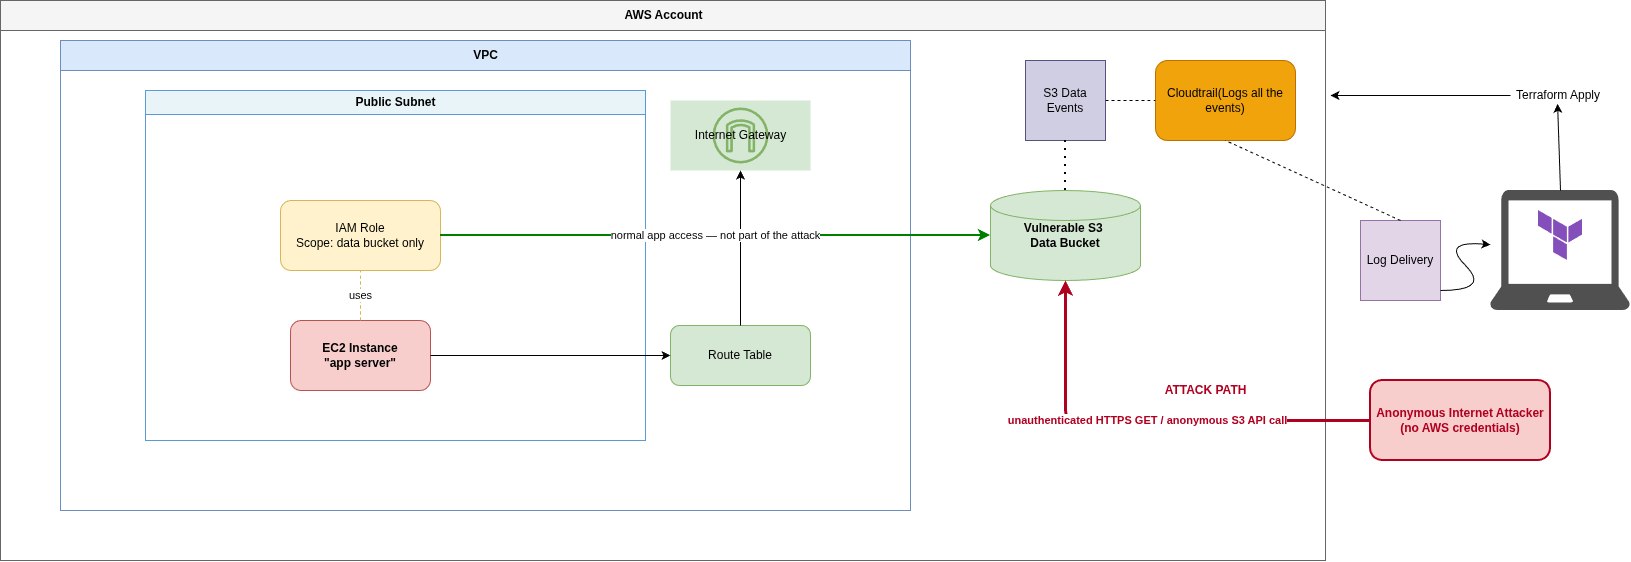
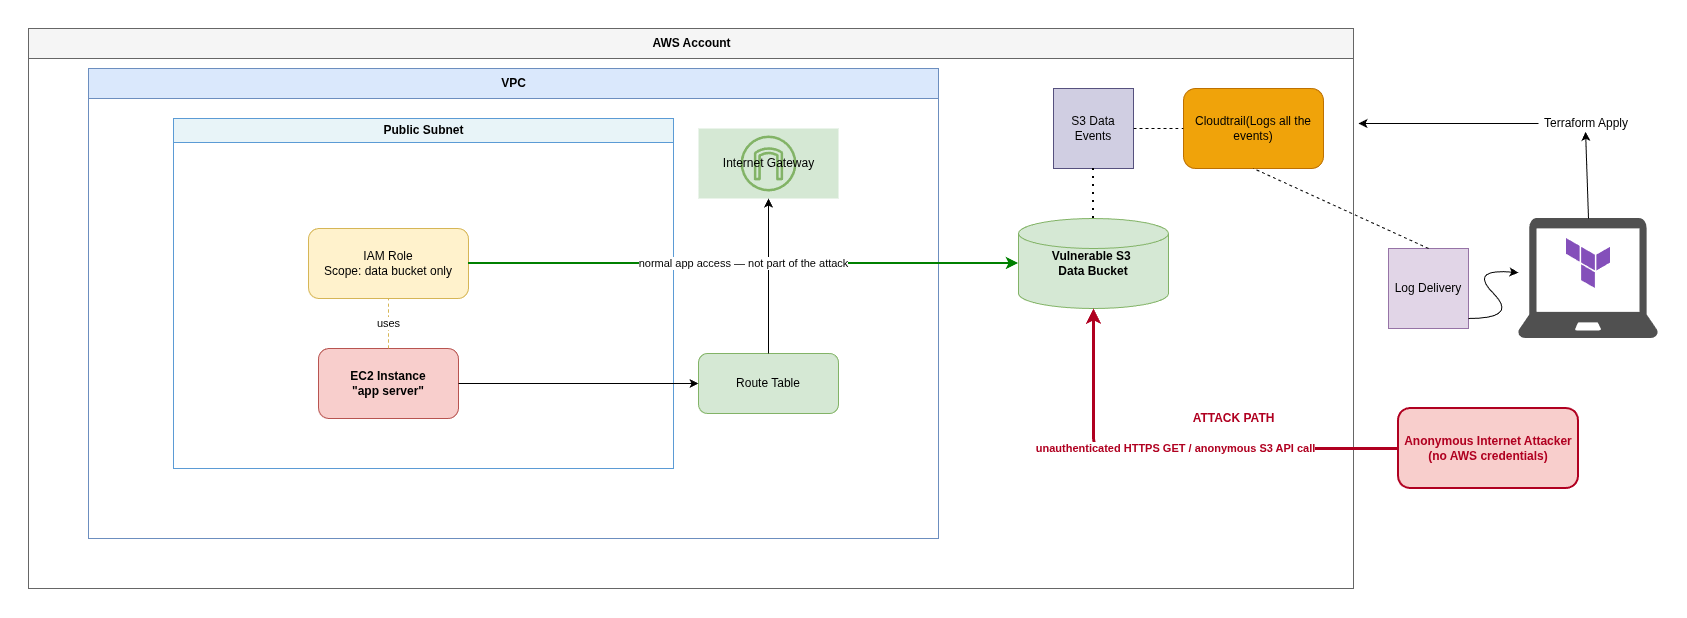
Redesign README; flatten diagram backgrounds to white
Give the three architecture diagrams an opaque white background (they
were transparent PNGs, so dark text/arrows were unreadable on GitHub's
dark theme). Reorganize the README so each diagram sits with its own
scenario subsection instead of one at the top and the rest scattered
after, and tighten the overall top-to-bottom flow.

diff --git a/README.md b/README.md
@@ -1,101 +1,102 @@
 # AWS Attack-Defense Scenario Kit
 
-<p align="center">
-  <img src="docs/scenario-01-architecture.png" alt="Architecture diagram of Scenario 01: an anonymous internet attacker reaches a misconfigured public S3 bucket directly over HTTPS, bypassing the VPC and EC2 app server entirely, while CloudTrail logs S3 data events for detection" width="850">
-</p>
+Self-contained, disposable AWS "scenario packs" for practicing offensive techniques *and* writing the detection logic that catches them. Each pack deploys with Terraform (plus Ansible where host config is needed), gets attacked, gets detected via CloudTrail or VPC Flow Logs, and tears itself down — a full **deploy → attack → detect → remediate → destroy** cycle designed to fit inside one hour.
 
-<p align="center"><em>Scenario 01 in one picture: the attack (red) never touches the VPC or EC2 instance — it goes straight for a misconfigured S3 bucket policy.</em></p>
-
-Self-contained, disposable AWS "scenario packs" for practicing offensive techniques *and* writing the detection logic that catches them. Each scenario deploys with Terraform (+ Ansible where app config is needed), gets attacked, gets detected via CloudTrail / VPC Flow Logs, and tears itself down — designed to fit inside a 1-hour cost window.
-
-Built as a hands-on Terraform learning project and a security portfolio piece: deploy → attack → detect → remediate → destroy, for each scenario.
+Built as a hands-on Terraform/AWS security project and a portfolio piece. All three scenarios have been run end-to-end against real AWS infrastructure.
 
 ## Why this exists
 
-Most "cloud security" learning is either pure theory (read the whitepaper) or pure CTF (exploit a pre-built box someone else configured). This kit closes the loop: you write the vulnerable infrastructure yourself in Terraform, you attack it, and then you write the detection query that would have caught you — so the offense and defense sides reinforce each other.
-
-## The 1-hour cycle
-
-| Phase | Time | Tool |
-|---|---|---|
-| Deploy | 5-10 min | `terraform apply` (+ Ansible where noted) |
-| Attack | 2-5 min | attack script (bash/python) |
-| Detect | 5-15 min | CloudTrail data events / VPC Flow Logs → Athena / Logs Insights |
-| Review + teardown | 5 min | detection query + `terraform destroy` |
-
-**Why not GuardDuty for detection?** CloudTrail has ~5-15 min delivery latency; GuardDuty is slower (15+ min to hours). Detection here is built on CloudTrail + Flow Logs so it actually fits the 1-hour window. GuardDuty is treated as optional/out-of-band.
+Most "cloud security" learning is either pure theory (read the whitepaper) or pure CTF (exploit a box someone else configured). This kit closes the loop: **you write the vulnerable infrastructure yourself**, you attack it, and then you write the detection query that would have caught you — so the offense and defense sides reinforce each other. Each scenario isolates exactly **one** misconfiguration, so the detection can target that specific thing instead of "anything weird."
 
 ## Scenarios
 
-| # | Name | Status | Attack | Detection |
-|---|---|---|---|---|
-| 01 | [S3 Data Exfiltration](scenarios/01-s3-exfil/) | ✅ verified end-to-end | Anonymous public-bucket read | CloudTrail S3 data events |
-| 02 | [IAM Privilege Escalation](scenarios/02-iam-privesc/) | ✅ verified end-to-end | AssumeRole via overly-broad trust policy | CloudTrail AssumeRole event |
-| 03 | [EC2 Lateral Movement](scenarios/03-lateral-move/) | ✅ verified end-to-end | Security-group gap pivot (SSH A→B) | VPC Flow Logs → Logs Insights |
+| # | Scenario | Attack | Detection |
+|---|----------|--------|-----------|
+| 01 | [S3 Data Exfiltration](scenarios/01-s3-exfil/) | Anonymous public-bucket read (no credentials) | CloudTrail S3 data events |
+| 02 | [IAM Privilege Escalation](scenarios/02-iam-privesc/) | `AssumeRole` into a role that trusts the account root | CloudTrail `AssumeRole` event |
+| 03 | [EC2 Lateral Movement](scenarios/03-lateral-move/) | Security-group gap: SSH pivot from web tier to data tier | VPC Flow Logs → Logs Insights |
 
-All three scenarios have run their full deploy → attack → detect → destroy cycle against real AWS infrastructure — see each scenario directory for its walkthrough and [`docs/technical-design.md`](docs/technical-design.md) for the full technical writeup (vulnerability mechanics, verified findings, and the design tradeoffs behind each).
+Each scenario directory has its own walkthrough (deploy / attack / detect / remediate / teardown); [`docs/technical-design.md`](docs/technical-design.md) is the deep writeup — vulnerability mechanics, verified findings, and the design tradeoff behind each.
 
-<p align="center">
-  <img src="docs/scenario-02-architecture.png" alt="Architecture diagram of Scenario 02: a low-privilege IAM analyst user is denied direct S3 access, but assumes an over-permissive role (its trust policy trusts the account root) to gain broader access, while CloudTrail logs the AssumeRole event for detection" width="720">
-</p>
+### 01 · S3 Data Exfiltration
 
-<p align="center"><em>Scenario 02: the analyst can't read S3 directly, so it escalates through a role that trusts too broadly — CloudTrail catches the <code>AssumeRole</code>.</em></p>
+A public-subnet app backed by an S3 bucket whose Block Public Access is off *and* whose policy grants `Principal: "*"`. The attack reads the data with **no AWS credentials at all** — it never touches the VPC or EC2 instance, which exist only for realism and the least-privilege contrast.
 
 <p align="center">
-  <img src="docs/scenario-03-architecture.png" alt="Architecture diagram of Scenario 03: an attacker gets access to a public web host, finds an SSH key, uses it to reach a private internal host through a security-group gap, and steals decoy database credentials, while VPC Flow Logs record the lateral movement" width="720">
+  <img src="docs/scenario-01-architecture.png" alt="Scenario 01: an anonymous internet attacker reads a misconfigured public S3 bucket directly over HTTPS, bypassing the VPC and EC2 instance; CloudTrail S3 data events record the access" width="820">
 </p>
 
-<p align="center"><em>Scenario 03: the attacker lands on the public web host, finds an SSH key, and pivots to the private host through a security-group gap — VPC Flow Logs catch the web→internal SSH.</em></p>
+### 02 · IAM Privilege Escalation
+
+A low-privilege user with a blanket `sts:AssumeRole` grant escalates into a far more powerful role whose **trust policy trusts the account `:root`** — which really means "any principal in the account." Two independent misconfigurations that are each harmless alone. Purely identity-layer: no VPC or EC2.
+
+<p align="center">
+  <img src="docs/scenario-02-architecture.png" alt="Scenario 02: a low-privilege IAM analyst is denied direct S3 access, then assumes an over-permissive role (its trust policy trusts the account root) to gain broader access; CloudTrail logs the AssumeRole" width="700">
+</p>
+
+### 03 · EC2 Lateral Movement
+
+Two tiers — a public web host and a private internal host. The only flaw is one security-group rule letting the web tier SSH into the data tier. An attacker who lands on the web host finds a leaked key and pivots to the internal host. Ansible configures the web host; the internal host self-configures at boot, so the *only* web→internal SSH flow is the attack.
+
+<p align="center">
+  <img src="docs/scenario-03-architecture.png" alt="Scenario 03: an attacker on the public web host finds an SSH key and pivots through a security-group gap to the private host to steal decoy credentials; VPC Flow Logs record the lateral SSH" width="700">
+</p>
+
+## How the cycle works
+
+| Phase | Time | Tool |
+|-------|------|------|
+| Deploy | 5–10 min | `terraform apply` (+ Ansible where noted) |
+| Attack | 2–5 min | per-scenario `scripts/attack.sh` |
+| Detect | 5–15 min | CloudTrail data events / VPC Flow Logs → `scripts/detect.sh` |
+| Review + teardown | 5 min | detection query + `terraform destroy` |
+
+**Why not GuardDuty?** Its findings lag 15 min to hours, which doesn't fit the one-hour window. Detection here is built on CloudTrail + VPC Flow Logs (both ~5–15 min) *and* keeps the detection logic explicit and reviewable — you write the query, so you can defend it.
+
+## Getting started
+
+**Prerequisites**
+
+- [Terraform](https://developer.hashicorp.com/terraform) ≥ 1.9 (≥ 1.10 if you use the optional S3 remote state)
+- [AWS CLI v2](https://docs.aws.amazon.com/cli/), authenticated (`aws sts get-caller-identity` should return your identity)
+- Python 3 + the project venv: `python3 -m venv .venv && .venv/bin/pip install ansible boto3`
+- An AWS account you're comfortable deploying *intentionally misconfigured* (but disposable) resources into, with the scoped deploy policy in [`iam/`](iam/) attached (see [`iam/README.md`](iam/README.md)). **Set AWS Budget alerts** before your first `apply`.
+
+**Quick start (Scenario 01)**
+
+```bash
+cd scenarios/01-s3-exfil/terraform
+terraform init && terraform apply
+# attack + detect steps: see scenarios/01-s3-exfil/README.md
+terraform destroy          # always tear down when done
+```
 
 ## Repo layout
 
 ```
-docs/                  # architecture diagrams + technical-design.md (the deep "why") + remote-state.md
-iam/                   # scoped IAM policy for the Terraform deploy user
-scripts/               # cross-scenario helpers (e.g. remote-state.sh)
-state-backend/         # optional one-time bootstrap for S3 remote Terraform state
+docs/            architecture diagrams, technical-design.md, remote-state.md, future-work.md
+iam/             scoped IAM policy for the Terraform deploy user
+scripts/         cross-scenario helpers (e.g. remote-state.sh)
+state-backend/   optional one-time bootstrap for S3 remote Terraform state
 scenarios/
-  01-s3-exfil/          # complete: terraform/, manifest.yaml, scripts/{attack,detect}.sh, README.md
-  02-iam-privesc/        # complete: same layout, identity-layer (no VPC/EC2)
-  03-lateral-move/       # complete: two-tier VPC, Ansible + user_data, Flow Logs detection
-.venv/                 # local Python env: ansible, boto3 (gitignored)
+  01-s3-exfil/     each: terraform/  manifest.yaml  scripts/{attack,detect}.sh  README.md
+  02-iam-privesc/
+  03-lateral-move/
 ```
 
-## Prerequisites
+## Safety & cost
 
-- [Terraform](https://developer.hashicorp.com/terraform) >= 1.9
-- [AWS CLI v2](https://docs.aws.amazon.com/cli/) with an authenticated IAM identity (`aws sts get-caller-identity` should return something)
-- Python 3 + the project venv: `python3 -m venv .venv && .venv/bin/pip install ansible boto3`
-- An AWS account you're comfortable deploying *intentionally misconfigured* (but disposable) resources into. **Recommend AWS Budget alerts at $5/$8/$10** before deploying anything (see Safety below).
-- An IAM user for Terraform with the scoped policy in [`iam/`](iam/) attached — see [`iam/README.md`](iam/README.md) for setup and for the account-level Block Public Access check Scenario 01 depends on.
-
-## Quick start (Scenario 1)
-
-```bash
-cd scenarios/01-s3-exfil/terraform
-terraform init
-terraform plan
-terraform apply
-
-# ... attack + detection steps: see scenarios/01-s3-exfil/README.md ...
-
-terraform destroy   # always tear down when you're done
-```
-
-## Safety & cost controls
-
-- Every scenario is tagged (`Project`, `Scenario`, `TTLMinutes`) and `force_destroy`'d so `terraform destroy` always fully cleans up.
-- The S3 buckets in these scenarios are **intentionally public/misconfigured by design** — never put real data in them, and never leave one deployed longer than the scenario needs.
-- Set up AWS Budget alerts before your first `apply`. A forgotten `t3.micro` is cheap (~$7.50/mo) but a forgotten public bucket is a real risk if it ever holds anything other than decoy data.
-- A 1-hour auto-teardown mechanism (EventBridge + Lambda, or scheduled `terraform destroy`) is a planned enhancement; for now, always run `terraform destroy` when you're done.
+- Every resource is tagged (`Project`, `Scenario`, `TTLMinutes`) and buckets are `force_destroy`'d, so `terraform destroy` fully cleans up.
+- The misconfigured buckets are **public by design** — only ever decoy data, never left up longer than a run needs.
+- A forgotten `t3.micro` is cheap (~$7.50/mo); a forgotten public bucket is the real risk. Budget alerts + always-destroy are the guardrails. A 1-hour auto-teardown is a planned enhancement.
 
 ## Optional: remote Terraform state
 
-Scenarios use **local** state by default (clone and go). If you'd rather keep state in a versioned, encrypted, private **S3 bucket** — with S3-native locking, so **no DynamoDB table** — it's an opt-in, Terraform-created setup: see [`docs/remote-state.md`](docs/remote-state.md).
+State is **local** by default (clone and go). To keep it in a versioned, encrypted, private **S3 bucket** with S3-native locking (**no DynamoDB**), there's an opt-in, Terraform-created setup — see [`docs/remote-state.md`](docs/remote-state.md).
 
 ## What's next
 
-All three scenarios are complete and verified end-to-end. [docs/future-work.md](docs/future-work.md) sketches a larger multi-stage "full-chain compromise" idea deliberately kept out of this kit's scope.
+All three scenarios are complete and verified end-to-end. [`docs/future-work.md`](docs/future-work.md) sketches a larger multi-stage "full-chain compromise" idea deliberately kept out of this kit's scope.
 
 ## License
 
